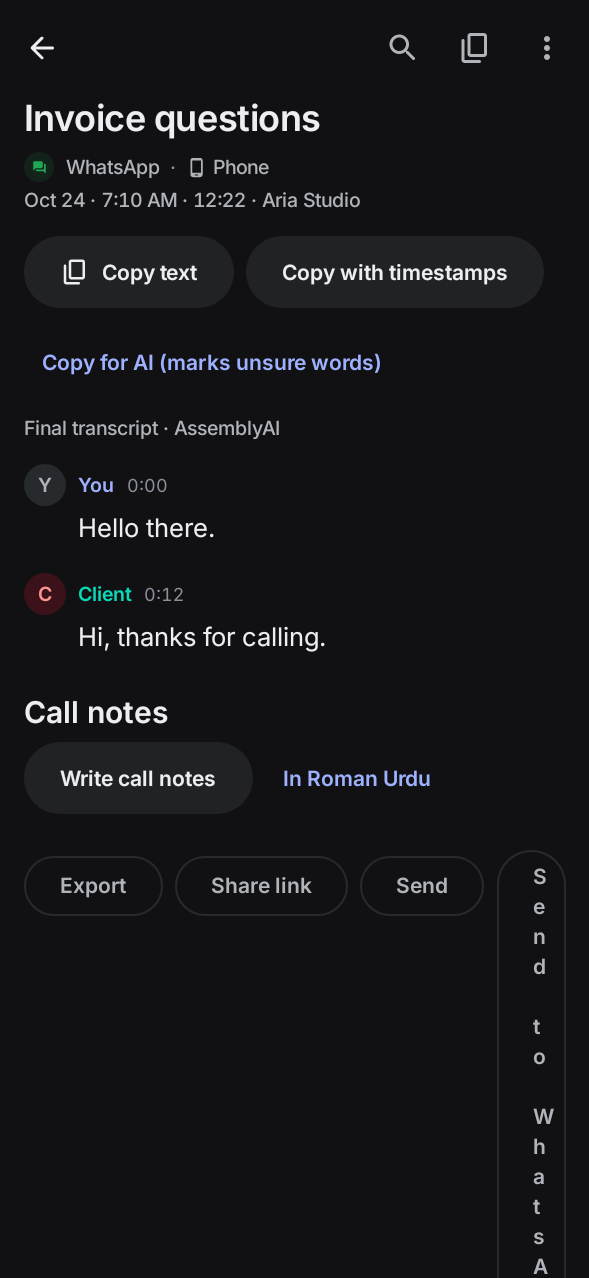
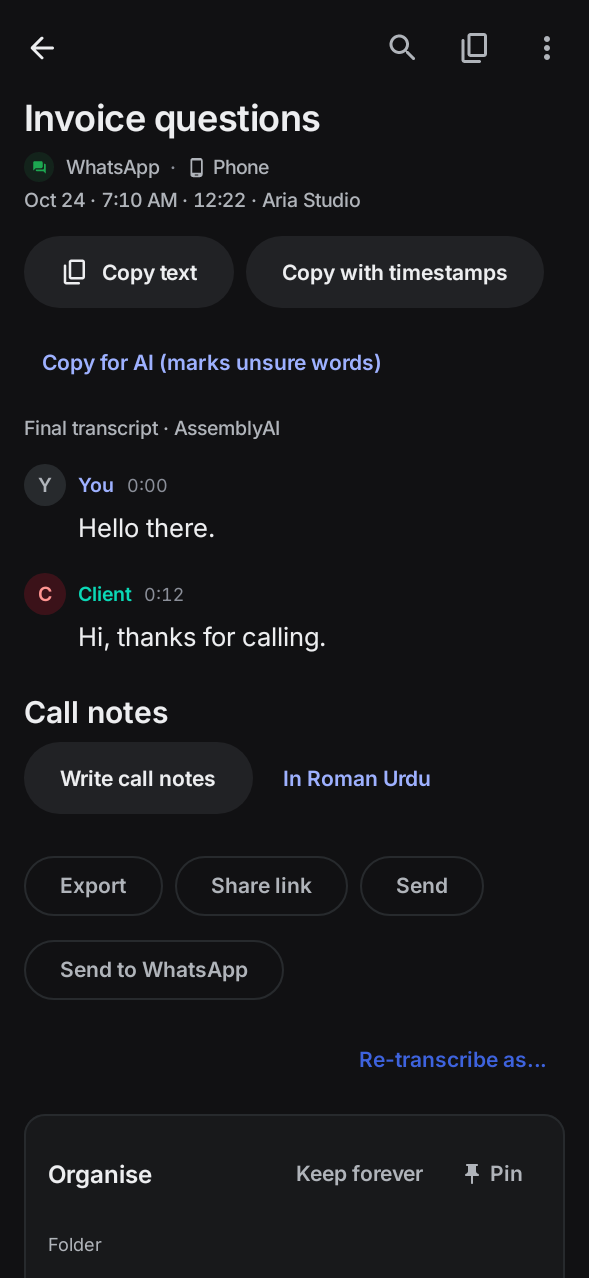
Recording page: Export, Share link, Send and Send to WhatsApp wrap with whole labels; so do the call notes buttons and Copy for AI
- The action row wraps onto the next line on a narrow phone or with large text: "Send to WhatsApp" was squeezed into a
  column one letter wide. The call notes buttons ("Write call notes", "In Roman Urdu") wrap the same way, and "Copy for
  AI (marks unsure words)" takes a second line at large text instead of being cut off.
- Tests at 360 dp and at twice the text size; screenshots of the page at 360 dp and at 200 %, light and dark, and the
  page's own screenshots again.

diff --git a/mobile/app/src/test/java/com/echoledger/mobile/ui/ScreenshotsTest.kt b/mobile/app/src/test/java/com/echoledger/mobile/ui/ScreenshotsTest.kt
@@ -23,6 +23,7 @@ import androidx.compose.ui.test.onNodeWithText
 import androidx.compose.ui.test.onRoot
 import androidx.compose.ui.test.performClick
 import androidx.compose.ui.test.performScrollTo
+import androidx.compose.ui.test.performScrollToNode
 import androidx.compose.ui.test.performTouchInput
 import androidx.compose.ui.unit.dp
 import com.echoledger.mobile.data.ActivityItemDto
@@ -198,6 +199,64 @@ class ScreenshotsTest : ScreenTest() {
         compose.waitUntil(5_000) { runCatching { compose.onNodeWithText("Hello there.", substring = true).fetchSemanticsNode() }.isSuccess }
         capture("session")
     }
+
+    /** A recording's page with its transcript, as [session] shows it, scrolled to the action row. */
+    private fun sessionActions(name: String, fontScale: Float) {
+        runBlocking { app.pairLocally(server) }
+        server.on("GET", "/api/transcripts/.+", FakeServer.json(200, ServerFixtures.transcript()))
+        server.on(
+            "GET",
+            "/api/sessions/${ServerFixtures.SESSION_ID}",
+            FakeServer.json(200, ServerFixtures.sessionDetail(playbackUrl = null))
+        )
+        server.on("GET", "/api/library", FakeServer.json(200, ServerFixtures.libraryPage(emptyList())))
+        val item = LibraryItem(
+            id = ServerFixtures.SESSION_ID,
+            sourceDevice = "phone",
+            sourceApp = "whatsapp",
+            title = "Invoice questions",
+            client = NamedRef("01JCLIENT0000000000000000A", "Aria Studio"),
+            startedAt = "2026-10-24T07:10:00+00:00",
+            durationMs = 742_000,
+            status = "completed",
+            transcript = TranscriptSummary(
+                finalStatus = "completed",
+                finalTranscriptId = ServerFixtures.TRANSCRIPT_ID,
+                liveAvailable = false,
+                preview = "preview"
+            ),
+            updatedAt = "2026-10-24T07:30:00+00:00"
+        )
+        shoot {
+            val density = androidx.compose.ui.platform.LocalDensity.current
+            androidx.compose.runtime.CompositionLocalProvider(
+                androidx.compose.ui.platform.LocalDensity provides androidx.compose.ui.unit.Density(density.density, fontScale = fontScale)
+            ) { SessionScreen(vm, item, onBack = {}) }
+        }
+        compose.waitUntil(5_000) { runCatching { compose.onNodeWithText("Hello there.", substring = true).fetchSemanticsNode() }.isSuccess }
+        compose.onNode(androidx.compose.ui.test.hasScrollAction()).performScrollToNode(androidx.compose.ui.test.hasText("Send to WhatsApp"))
+        compose.waitForIdle()
+        listOf("Send to WhatsApp", "In Roman Urdu").forEach { label ->
+            val bounds = compose.onNodeWithText(label).fetchSemanticsNode().boundsInRoot
+            assertTrue("$label: ${bounds.width} wide, ${bounds.height} high", bounds.width > bounds.height)
+        }
+        // A long label is never cut off: it takes a second line.
+        val layouts = mutableListOf<androidx.compose.ui.text.TextLayoutResult>()
+        compose.onNodeWithText("Copy for AI (marks unsure words)", useUnmergedTree = true).fetchSemanticsNode()
+            .config[androidx.compose.ui.semantics.SemanticsActions.GetTextLayoutResult].action?.invoke(layouts)
+        // Cut off = lines that did not fit under the label's line limit (its width is measured loosely by the test fonts).
+        assertTrue("Copy for AI is cut off", layouts.isNotEmpty() && !layouts.first().didOverflowHeight)
+        capture(name)
+    }
+
+    /** The action row on a 360 dp phone: Export · Share link · Send, and Send to WhatsApp on the next line. */
+    @Test
+    @Config(qualifiers = "w360dp-h800dp-hdpi")
+    fun sessionActions360() = sessionActions("session-actions-360", 1f)
+
+    /** The action row at twice the text size (Android's largest font). */
+    @Test
+    fun sessionActionsLargeText() = sessionActions("session-actions-text200", 2f)
 
     @Test
     fun record() {

diff --git a/mobile/app/src/test/java/com/echoledger/mobile/ui/TranscriptToolsTest.kt b/mobile/app/src/test/java/com/echoledger/mobile/ui/TranscriptToolsTest.kt
@@ -1,10 +1,16 @@
 package com.echoledger.mobile.ui
 
+import androidx.compose.foundation.layout.Box
+import androidx.compose.foundation.layout.Column
+import androidx.compose.foundation.layout.padding
+import androidx.compose.foundation.layout.width
 import androidx.compose.runtime.collectAsState
+import androidx.compose.ui.Modifier
 import androidx.compose.ui.test.onAllNodesWithText
 import androidx.compose.ui.test.onNodeWithText
 import androidx.compose.ui.test.performClick
 import androidx.compose.ui.test.performTextInput
+import androidx.compose.ui.unit.dp
 import com.echoledger.mobile.data.ApiJson
 import com.echoledger.mobile.data.CreateSessionRequest
 import com.echoledger.mobile.data.OpenSessionRequest
@@ -33,6 +39,39 @@ class TranscriptToolsTest : ScreenTest() {
     }
 
     private fun settings() = runBlocking { app.graph.settings.current() }
+
+    // ---- the action row (Export · Share link · Send · Send to WhatsApp) ----------------------------------------------
+
+    /** The row on a 360 dp wide phone at [fontScale]: every button keeps its label on a line, none is squeezed. */
+    private fun actionRow(fontScale: Float) {
+        show {
+            Box(Modifier.width(360.dp)) {
+                val density = androidx.compose.ui.platform.LocalDensity.current
+                androidx.compose.runtime.CompositionLocalProvider(
+                    androidx.compose.ui.platform.LocalDensity provides
+                        androidx.compose.ui.unit.Density(density.density, fontScale = fontScale)
+                ) {
+                    Column(Modifier.padding(16.dp)) {
+                        ExportShareRow(vm, "01JSESSION00000000000000A", "01JTRANSCRIPT000000000000A", hasAudio = true)
+                    }
+                }
+            }
+        }
+        compose.waitForIdle()
+        listOf("Export", "Share link", "Send", "Send to WhatsApp").forEach { label ->
+            val bounds = compose.onNodeWithText(label).fetchSemanticsNode().boundsInRoot
+            assertTrue("$label at ${fontScale}x: ${bounds.width} wide, ${bounds.height} high", bounds.width > bounds.height)
+        }
+    }
+
+    // Real text measuring (the default test graphics give text no width, and every button its minimum).
+    @Test
+    @org.robolectric.annotation.GraphicsMode(org.robolectric.annotation.GraphicsMode.Mode.NATIVE)
+    fun `on a 360 dp phone the action row keeps every label whole, Send to WhatsApp too`() = actionRow(1f)
+
+    @Test
+    @org.robolectric.annotation.GraphicsMode(org.robolectric.annotation.GraphicsMode.Mode.NATIVE)
+    fun `at twice the text size the action row still keeps every label whole`() = actionRow(2f)
 
     // ---- pure ---------------------------------------------------------------------------------------------------
 

diff --git a/mobile/app/src/main/java/com/echoledger/mobile/ui/ClientWorkspace.kt b/mobile/app/src/main/java/com/echoledger/mobile/ui/ClientWorkspace.kt
@@ -864,6 +864,7 @@ private fun copyText(context: Context, label: String, text: String) {
  * A recording's call notes on its page (since 1.4): shown when written; otherwise "Write call notes" (English or
  * Roman Urdu). Tapping a line plays that moment ([onSeek]).
  */
+@OptIn(androidx.compose.foundation.layout.ExperimentalLayoutApi::class)
 @Composable
 fun CallNotesSection(vm: MainViewModel, sessionId: String, onSeek: (Long) -> Unit) {
     val type = LocalEchoType.current
@@ -887,7 +888,11 @@ fun CallNotesSection(vm: MainViewModel, sessionId: String, onSeek: (Long) -> Uni
         Text("Call notes", style = type.titleM, color = c.text)
         notes?.let { NotesCard(it, onOpenAt = { _, ms -> onSeek(ms) }, showTitle = false) }
         if (notes == null || notes?.status in setOf("failed", "skipped")) {
-            Row(horizontalArrangement = Arrangement.spacedBy(Space.s2)) {
+            // Wraps onto the next line on a narrow screen or with large text, each button keeping its label (since v1.8).
+            androidx.compose.foundation.layout.FlowRow(
+                horizontalArrangement = Arrangement.spacedBy(Space.s2),
+                verticalArrangement = Arrangement.spacedBy(Space.s2)
+            ) {
                 ClientFiles.LANGUAGES.forEach { (code, label) ->
                     EchoButton(if (code == "en") "Write call notes" else "In $label", {
                         scope.launch { vm.makeNotes(sessionId, code)?.let { notes = it } }

diff --git a/mobile/app/src/main/java/com/echoledger/mobile/ui/TranscriptTools.kt b/mobile/app/src/main/java/com/echoledger/mobile/ui/TranscriptTools.kt
@@ -152,7 +152,11 @@ suspend fun printHtml(context: Context, file: File) {
     webView.loadDataWithBaseURL(null, html, "text/html", "UTF-8", null)
 }
 
-/** Export and share buttons of a finished transcript. */
+/**
+ * Export and share buttons of a finished transcript. They wrap onto the next line when the screen is narrow or the
+ * text is large (since v1.8: in one row "Send to WhatsApp" was squeezed to one letter per line), each keeping its label.
+ */
+@OptIn(ExperimentalLayoutApi::class)
 @Composable
 fun ExportShareRow(vm: MainViewModel, sessionId: String, transcriptId: String?, hasAudio: Boolean, view: String? = null) {
     val context = LocalContext.current
@@ -161,7 +165,7 @@ fun ExportShareRow(vm: MainViewModel, sessionId: String, transcriptId: String?, 
     var shareDialog by remember { mutableStateOf(false) }
     var sendSheet by remember { mutableStateOf(false) }
     var whatsApp by remember { mutableStateOf(false) }
-    Row(horizontalArrangement = Arrangement.spacedBy(8.dp)) {
+    FlowRow(horizontalArrangement = Arrangement.spacedBy(8.dp), verticalArrangement = Arrangement.spacedBy(8.dp)) {
         if (transcriptId != null) {
             Column {
                 OutlinedButton(onClick = { menu = true }) { Text("Export") }

diff --git a/mobile/app/src/main/java/com/echoledger/mobile/ui/design/Components.kt b/mobile/app/src/main/java/com/echoledger/mobile/ui/design/Components.kt
@@ -158,7 +158,9 @@ fun EchoButton(
     kind: ButtonKind = ButtonKind.Primary,
     icon: ImageVector? = null,
     enabled: Boolean = true,
-    loading: Boolean = false
+    loading: Boolean = false,
+    /** Lines the label may take (one by default); a long label on a page with large text may take two. */
+    maxLines: Int = 1
 ) {
     val c = LocalEchoColors.current
     val interaction = remember { MutableInteractionSource() }
@@ -188,7 +190,7 @@ fun EchoButton(
             Icon(icon, contentDescription = null, tint = tint, modifier = Modifier.size(20.dp))
             Spacer(Modifier.width(Space.s2))
         }
-        Text(text, style = LocalEchoType.current.labelL, color = tint, maxLines = 1)
+        Text(text, style = LocalEchoType.current.labelL, color = tint, maxLines = maxLines)
     }
 }
 

diff --git a/mobile/app/src/main/java/com/echoledger/mobile/ui/Screens.kt b/mobile/app/src/main/java/com/echoledger/mobile/ui/Screens.kt
@@ -636,7 +636,7 @@ fun SessionScreen(
                             }
                             EchoButton("Copy for AI (marks unsure words)", {
                                 copy(withTimestamps = false, forAi = true)
-                            }, kind = ButtonKind.Text)
+                            }, kind = ButtonKind.Text, maxLines = 2)
                             Text(
                                 if (t.kind ==
                                     "final"
